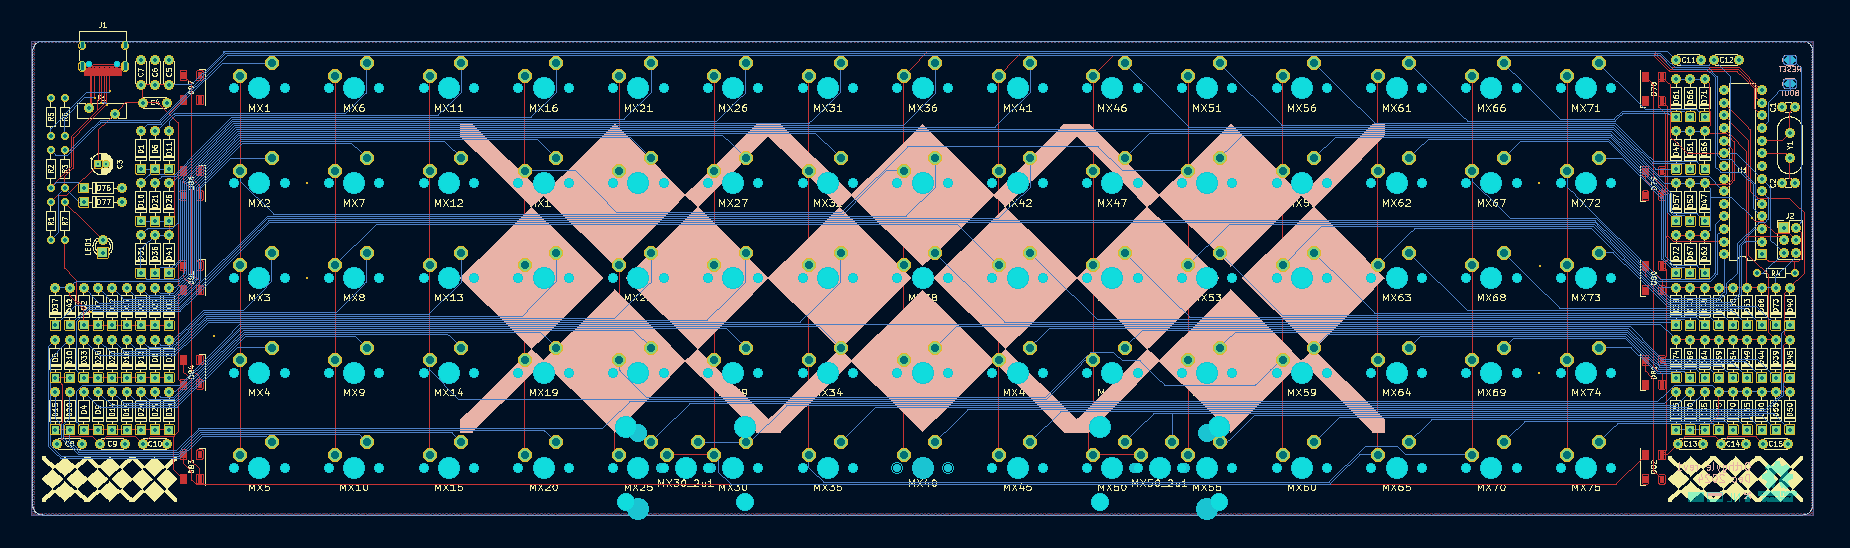
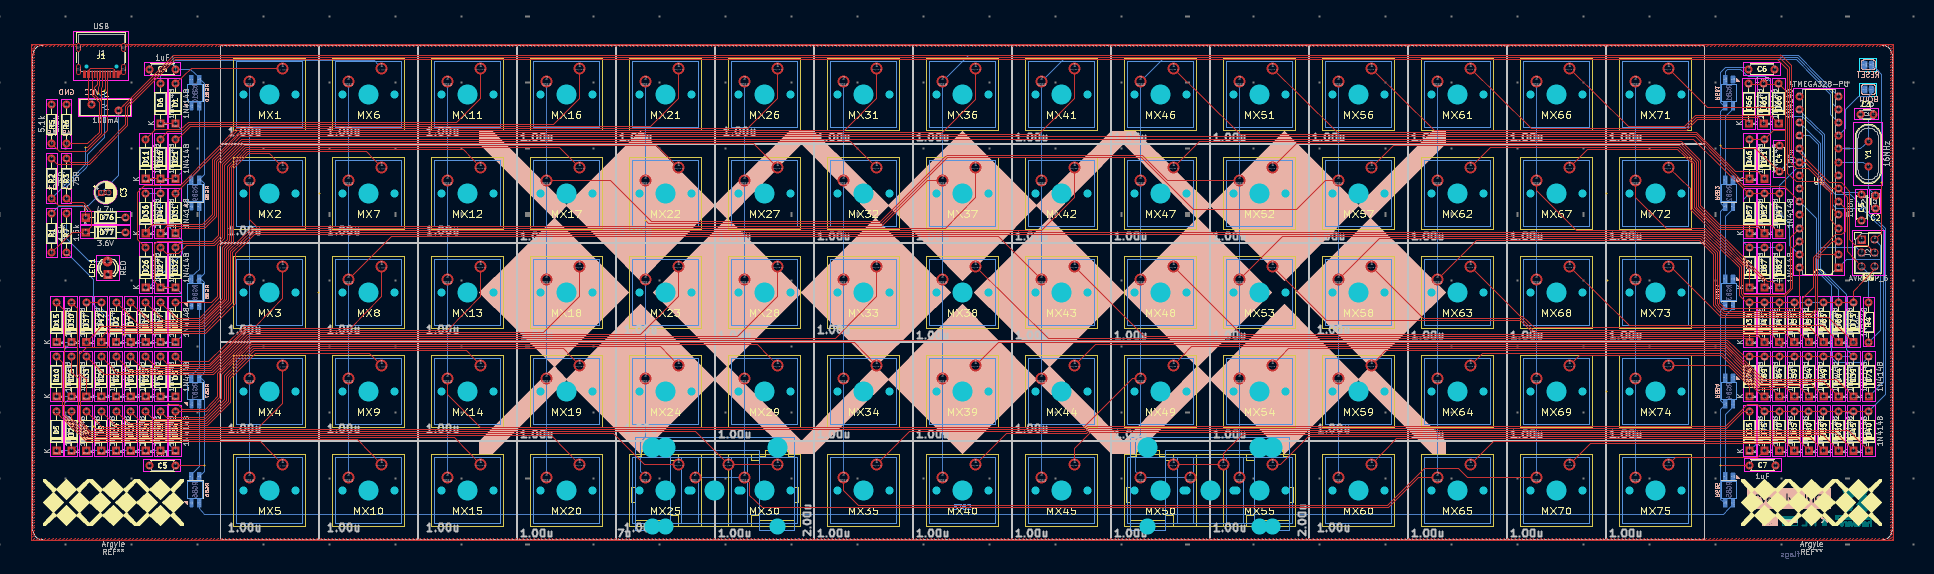
Update BOM and images

diff --git a/BOM.md b/BOM.md
@@ -4,7 +4,8 @@
 |-----------|-----|----------------|--------------------------------------------|
 | C1,C2     | 2   | 22pF p2.5mm    | multilayer ceramic capacitor               |
 | C3        | 1   | 4.7uF p1.5mm   | electrolytic capacitor                     |
-| C4-15     | 12  | 100nF p5.0mm   | multilayer ceramic capacitor               |
+| C4,C5     | 2   | 100nF p5.0mm   | multilayer ceramic capacitor               |
+| C6-9      | 4   | 1uF p5.0mm     | multilayer ceramic capacitor               |
 | D1-75     | 75  | 1n4148         | diode                                      |
 | D61,D62   | 2   | 3.6V           | zener diode                                |
 | F1        | 1   | 100mA          | polyfuse                                   |
@@ -16,7 +17,7 @@
 | R2,R3     | 2   | 75Ω            | resistor                                   |
 | R4        | 1   | 10kΩ           | resistor                                   |
 | R5,R6     | 2   | 5.1kΩ          | resistor                                   |
-| RGB1-10   | 10  | WS2812B 5.0mm  | intelligent control RGB LED                |
+| RGB1-10   | 10  | SK6812-mini-e  | intelligent control RGB LED                |
 | IC socket | 1   | 28pin narrow   | IC socket                                  |
 | U1        | 1   | ATMEGA328P     | microcontroller                            |
 | Y1        | 1   | HC49-4H 16MHz  | crystal                                    |
